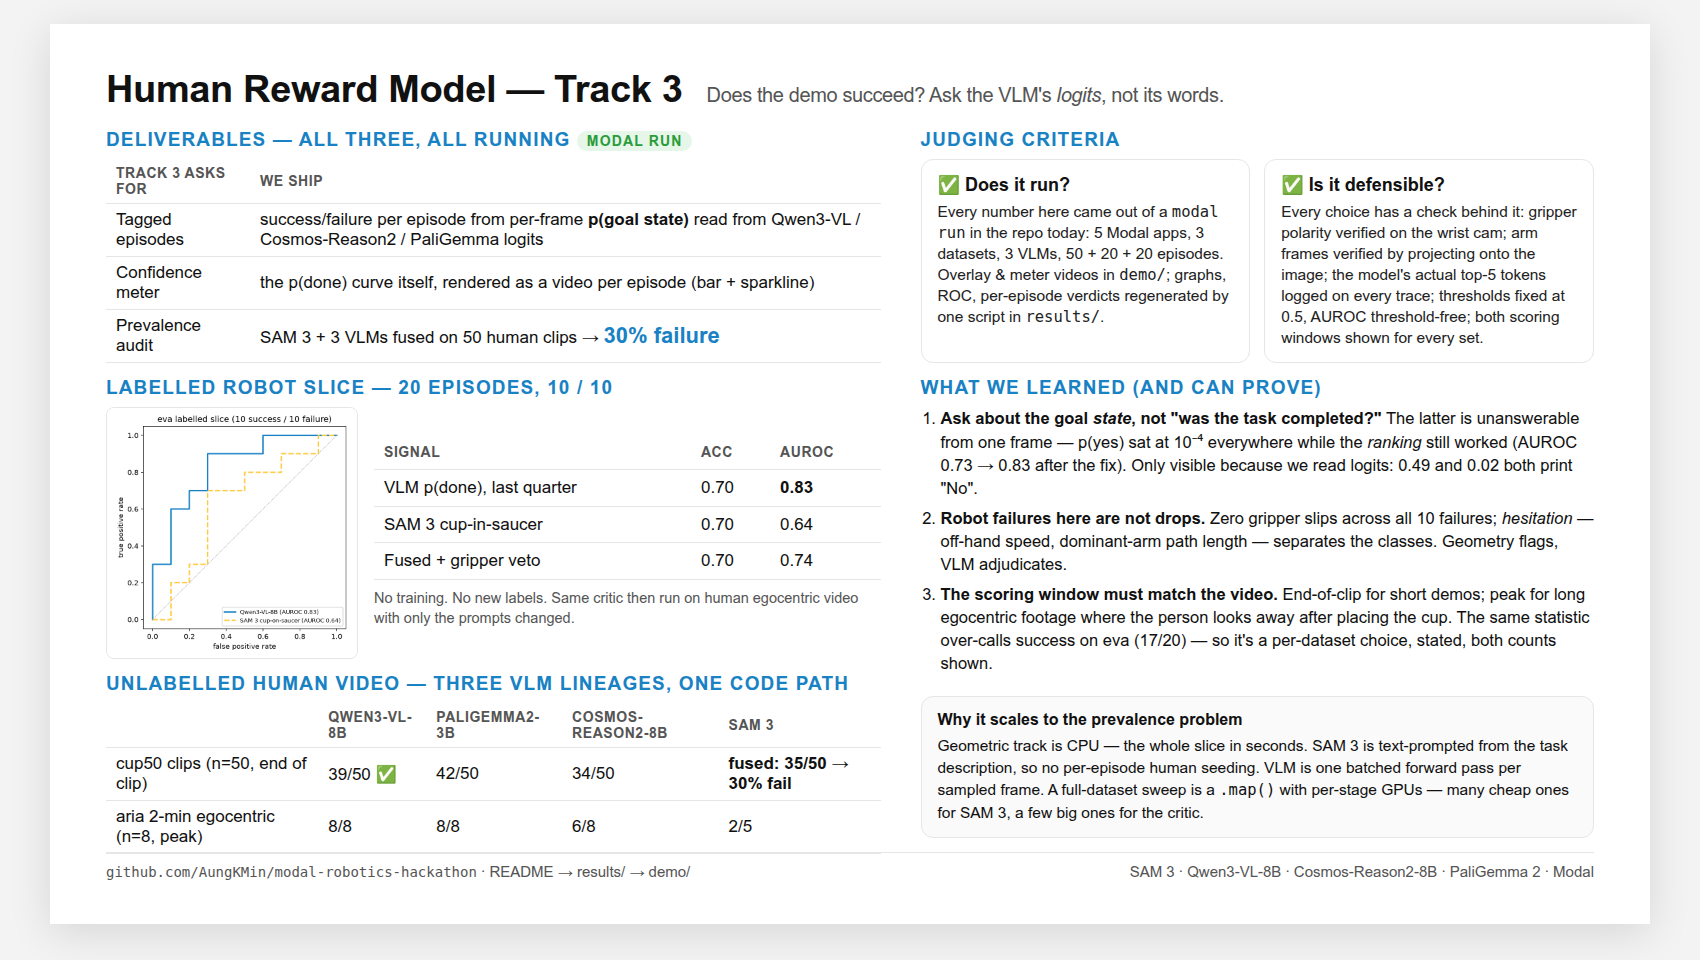
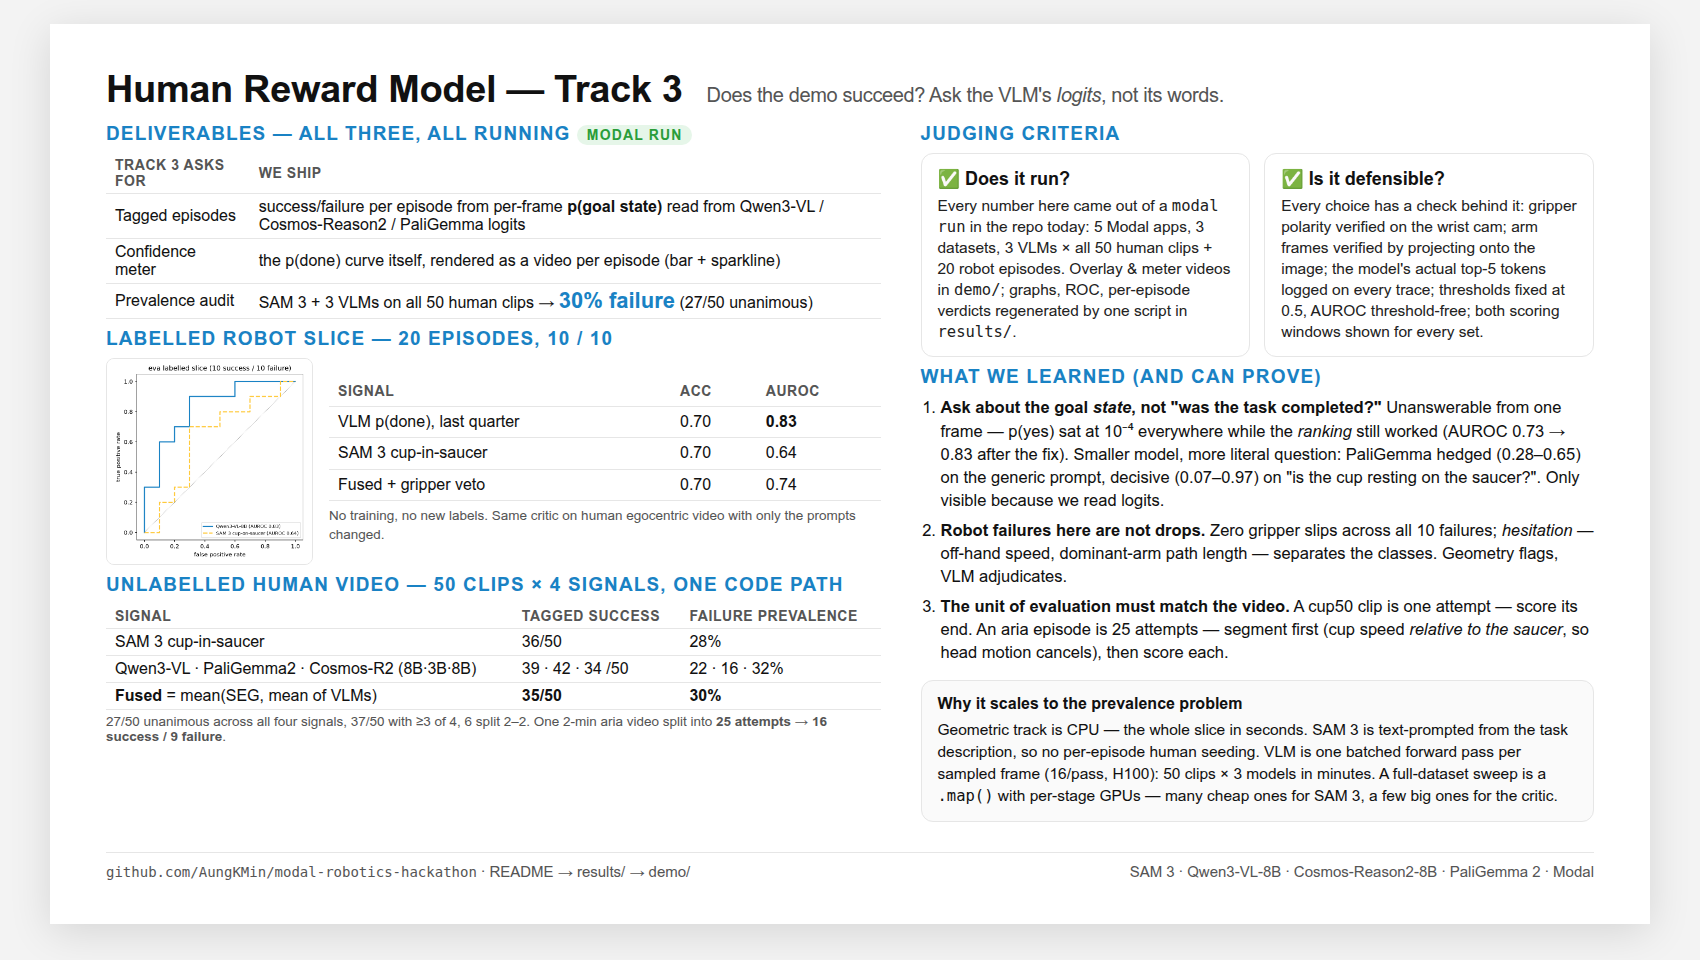
Slide + README rewritten for the full 50-clip, three-VLM results

diff --git a/SLIDE.html b/SLIDE.html
@@ -3,13 +3,13 @@
 <style>
   :root { --ink:#111; --muted:#555; --line:#e6e6e6; --good:#2a9d3a; --bad:#d63a3a; --accent:#1982c4; }
   html,body { margin:0; background:#f3f3f3; font-family: Inter, -apple-system, Segoe UI, Roboto, sans-serif; color:var(--ink); }
-  .slide { width:1600px; height:900px; margin:24px auto; background:#fff; box-shadow:0 8px 40px rgba(0,0,0,.12); padding:44px 56px; box-sizing:border-box; display:grid; grid-template-columns: 1.15fr 1fr; grid-template-rows:auto 1fr auto; gap:18px 40px; }
+  .slide { width:1600px; height:900px; margin:24px auto; background:#fff; box-shadow:0 8px 40px rgba(0,0,0,.12); padding:44px 56px; box-sizing:border-box; display:grid; grid-template-columns: 1.15fr 1fr; grid-template-rows:auto 1fr auto; gap:12px 40px; }
   h1 { grid-column:1/3; margin:0; font-size:38px; letter-spacing:-.01em; }
   h1 small { font-size:20px; color:var(--muted); font-weight:500; margin-left:14px; }
   h2 { font-size:19px; margin:0 0 8px; text-transform:uppercase; letter-spacing:.06em; color:var(--accent); }
-  .col { display:flex; flex-direction:column; gap:14px; min-height:0; }
-  table { border-collapse:collapse; width:100%; font-size:17px; }
-  th,td { padding:6px 10px; border-bottom:1px solid var(--line); text-align:left; }
+  .col { display:flex; flex-direction:column; gap:9px; min-height:0; }
+  table { border-collapse:collapse; width:100%; font-size:16px; }
+  th,td { padding:4px 9px; border-bottom:1px solid var(--line); text-align:left; }
   th { font-weight:600; color:var(--muted); font-size:14px; text-transform:uppercase; letter-spacing:.04em; }
   td.num { font-variant-numeric: tabular-nums; }
   .big { font-size:22px; font-weight:700; color:var(--accent); }
@@ -24,7 +24,7 @@
   .foot { grid-column:1/3; display:flex; justify-content:space-between; align-items:center; font-size:15px; color:var(--muted); border-top:1px solid var(--line); padding-top:10px; }
   .foot code { font-size:14px; }
   .roc { display:flex; gap:16px; align-items:center; }
-  .roc img { width:250px; height:250px; border:1px solid var(--line); border-radius:8px; }
+  .roc img { width:205px; height:205px; border:1px solid var(--line); border-radius:8px; }
   .roc .k { font-size:15.5px; line-height:1.4; }
 </style></head><body>
 <div class="slide">
@@ -37,7 +37,7 @@
         <tr><th>Track 3 asks for</th><th>We ship</th></tr>
         <tr><td>Tagged episodes</td><td>success/failure per episode from per-frame <b>p(goal state)</b> read from Qwen3-VL / Cosmos-Reason2 / PaliGemma logits</td></tr>
         <tr><td>Confidence meter</td><td>the p(done) curve itself, rendered as a video per episode (bar + sparkline)</td></tr>
-        <tr><td>Prevalence audit</td><td>SAM 3 + 3 VLMs fused on 50 human clips → <span class="big">30% failure</span></td></tr>
+        <tr><td>Prevalence audit</td><td>SAM 3 + 3 VLMs on all 50 human clips → <span class="big">30% failure</span> (27/50 unanimous)</td></tr>
       </table>
     </div>
 
@@ -52,18 +52,20 @@
             <tr><td>SAM 3 cup-in-saucer</td><td class="num">0.70</td><td class="num">0.64</td></tr>
             <tr><td>Fused + gripper veto</td><td class="num">0.70</td><td class="num">0.74</td></tr>
           </table>
-          <div style="margin-top:8px;color:var(--muted);font-size:14.5px">No training. No new labels. Same critic then run on human egocentric video with only the prompts changed.</div>
+          <div style="margin-top:6px;color:var(--muted);font-size:13.5px">No training, no new labels. Same critic on human egocentric video with only the prompts changed.</div>
         </div>
       </div>
     </div>
 
     <div>
-      <h2>Unlabelled human video — three VLM lineages, one code path</h2>
+      <h2>Unlabelled human video — 50 clips × 4 signals, one code path</h2>
       <table>
-        <tr><th></th><th>Qwen3-VL-8B</th><th>PaliGemma2-3B</th><th>Cosmos-Reason2-8B</th><th>SAM 3</th></tr>
-        <tr><td>cup50 clips (n=50, end of clip)</td><td class="num">39/50 ✅</td><td class="num">42/50</td><td class="num">34/50</td><td class="num"><b>fused: 35/50 → 30% fail</b></td></tr>
-        <tr><td>aria 2-min egocentric (n=8, peak)</td><td class="num">8/8</td><td class="num">8/8</td><td class="num">6/8</td><td class="num">2/5</td></tr>
+        <tr><th>signal</th><th>tagged success</th><th>failure prevalence</th></tr>
+        <tr><td>SAM 3 cup-in-saucer</td><td class="num">36/50</td><td class="num">28%</td></tr>
+        <tr><td>Qwen3-VL · PaliGemma2 · Cosmos-R2 (8B·3B·8B)</td><td class="num">39 · 42 · 34 /50</td><td class="num">22 · 16 · 32%</td></tr>
+        <tr><td><b>Fused</b> = mean(SEG, mean of VLMs)</td><td class="num"><b>35/50</b></td><td class="num"><b>30%</b></td></tr>
       </table>
+      <div style="margin-top:4px;color:var(--muted);font-size:13.5px">27/50 unanimous across all four signals, 37/50 with ≥3 of 4, 6 split 2–2. One 2-min aria video split into <b>25 attempts → 16 success / 9 failure</b>.</div>
     </div>
   </div>
 
@@ -71,7 +73,7 @@
     <div>
       <h2>Judging criteria</h2>
       <div class="judge">
-        <div class="card"><b>✅ Does it run?</b><p>Every number here came out of a <code>modal run</code> in the repo today: 5 Modal apps, 3 datasets, 3 VLMs, 50 + 20 + 20 episodes. Overlay &amp; meter videos in <code>demo/</code>; graphs, ROC, per-episode verdicts regenerated by one script in <code>results/</code>.</p></div>
+        <div class="card"><b>✅ Does it run?</b><p>Every number here came out of a <code>modal run</code> in the repo today: 5 Modal apps, 3 datasets, 3 VLMs × all 50 human clips + 20 robot episodes. Overlay &amp; meter videos in <code>demo/</code>; graphs, ROC, per-episode verdicts regenerated by one script in <code>results/</code>.</p></div>
         <div class="card"><b>✅ Is it defensible?</b><p>Every choice has a check behind it: gripper polarity verified on the wrist cam; arm frames verified by projecting onto the image; the model's actual top-5 tokens logged on every trace; thresholds fixed at 0.5, AUROC threshold-free; both scoring windows shown for every set.</p></div>
       </div>
     </div>
@@ -79,15 +81,15 @@
     <div>
       <h2>What we learned (and can prove)</h2>
       <ol>
-        <li><b>Ask about the goal <em>state</em>, not "was the task completed?"</b> The latter is unanswerable from one frame — p(yes) sat at 10⁻⁴ everywhere while the <em>ranking</em> still worked (AUROC 0.73 → 0.83 after the fix). Only visible because we read logits: 0.49 and 0.02 both print "No".</li>
+        <li><b>Ask about the goal <em>state</em>, not "was the task completed?"</b> Unanswerable from one frame — p(yes) sat at 10⁻⁴ everywhere while the <em>ranking</em> still worked (AUROC 0.73 → 0.83 after the fix). Smaller model, more literal question: PaliGemma hedged (0.28–0.65) on the generic prompt, decisive (0.07–0.97) on "is the cup resting on the saucer?". Only visible because we read logits.</li>
         <li><b>Robot failures here are not drops.</b> Zero gripper slips across all 10 failures; <em>hesitation</em> — off-hand speed, dominant-arm path length — separates the classes. Geometry flags, VLM adjudicates.</li>
-        <li><b>The scoring window must match the video.</b> End-of-clip for short demos; peak for long egocentric footage where the person looks away after placing the cup. The same statistic over-calls success on eva (17/20) — so it's a per-dataset choice, stated, both counts shown.</li>
+        <li><b>The unit of evaluation must match the video.</b> A cup50 clip is one attempt — score its end. An aria episode is 25 attempts — segment first (cup speed <em>relative to the saucer</em>, so head motion cancels), then score each.</li>
       </ol>
     </div>
 
     <div class="card" style="background:#fafafa">
       <b>Why it scales to the prevalence problem</b>
-      <p style="margin:6px 0 0;font-size:15.5px;line-height:1.4">Geometric track is CPU — the whole slice in seconds. SAM 3 is text-prompted from the task description, so no per-episode human seeding. VLM is one batched forward pass per sampled frame. A full-dataset sweep is a <code>.map()</code> with per-stage GPUs — many cheap ones for SAM 3, a few big ones for the critic.</p>
+      <p style="margin:6px 0 0;font-size:15.5px;line-height:1.4">Geometric track is CPU — the whole slice in seconds. SAM 3 is text-prompted from the task description, so no per-episode human seeding. VLM is one batched forward pass per sampled frame (16/pass, H100): 50 clips × 3 models in minutes. A full-dataset sweep is a <code>.map()</code> with per-stage GPUs — many cheap ones for SAM 3, a few big ones for the critic.</p>
     </div>
   </div>
 

diff --git a/README.md b/README.md
@@ -13,12 +13,11 @@ https://github.com/user-attachments/assets/bf97fde3-0637-4622-8e00-3abb104e7c60
 
 > One-slide version: [`SLIDE.pptx`](SLIDE.pptx) · [`SLIDE.png`](SLIDE.png) · [`SLIDE.html`](SLIDE.html) · [`SLIDE.md`](SLIDE.md)
 
-Refer to [results](https://github.com/AungKMin/modal-robotics-hackathon/tree/main/results) for a detailed summary.
-
 **Does the demo succeed? Ask the VLM's logits, not its words.**
-Per-frame `p(goal state reached)` read from Qwen3-VL / Cosmos-Reason2 / PaliGemma logits →
-confidence meter → episode tag → prevalence audit. Plus SAM 3 text-prompted masks
-(`hand`, `cup`, `saucer`) and gripper proprioception. Zero training, zero new labels, all on Modal.
+Per-frame `p(cup is on the saucer)` read from Qwen3-VL-8B / Cosmos-Reason2-8B / PaliGemma 2 logits →
+confidence meter → episode tag → prevalence audit. Fused with SAM 3 text-prompted masks
+(`hand`, `cup`, `saucer`) and, on robot episodes, gripper proprioception. Zero training, zero new
+labels, all on Modal. **Success = the cup ends up on the saucer; failure = it does not.**
 
 **Labelled robot slice** — 20 eva cup-on-saucer episodes, 10 success / 10 failure
 
@@ -28,54 +27,45 @@ confidence meter → episode tag → prevalence audit. Plus SAM 3 text-prompted 
 | SAM 3 cup-centroid-in-saucer | 0.70 | 0.64 |
 | Fused + geometric veto | 0.70 | 0.74 |
 
-**Unlabelled human video** — same critic, only the prompts changed
+**Prevalence audit — 50 unlabelled human cup-on-saucer clips**
+([somundane/egoverse-cup50](https://huggingface.co/datasets/somundane/egoverse-cup50)), every signal on every clip
 
-| | Qwen3-VL-8B | PaliGemma2-3B | Cosmos-Reason2-8B | SAM 3 |
-|---|---|---|---|---|
-| cup50 clips (n=50, end-of-clip) | 39/50 success | 42/50 | 34/50 | **fused 35/50 → 30% failure prevalence** |
-| aria 2-min egocentric (n=8, peak) | 8/8 | 8/8 | 6/8 | 2/5 |
+| signal | tagged success | failure prevalence |
+|---|---|---|
+| SAM 3 cup-in-saucer | 36/50 | 28% |
+| Qwen3-VL-8B | 39/50 | 22% |
+| PaliGemma2-3B | 42/50 | 16% |
+| Cosmos-Reason2-8B | 34/50 | 32% |
+| **Fused** = mean(SEG, mean of VLMs) | **35/50** | **30%** |
 
-**Three things we learned**
+Agreement: **27/50 clips unanimous** across all four signals, 37/50 with ≥3 of 4, only 6 split 2–2.
+Per-episode votes: [`results/cup50_final.md`](results/cup50_final.md).
+
+**One 2-minute aria egocentric video, split into attempts** — cup rests *relative to the saucer*
+(so head motion cancels), each pick-up→set-down scored: **25 attempts → 16 success / 9 failure**,
+plus 16 returns to the start position correctly not counted.
+[`results/aria_split_2025-11-24-23-59-28-546000.md`](results/aria_split_2025-11-24-23-59-28-546000.md)
+
+**Three things we learned (and can prove)**
 
 1. **Ask about the goal *state*, not "was the task completed?"** The latter is unanswerable from
    one frame; p(yes) sat at 10⁻⁴ on every frame while the *ranking* still worked (AUROC 0.73 →
-   0.83 after the fix). Only visible because we read logits — 0.49 and 0.02 both print "No".
+   0.83 after the fix). And the smaller the model, the more literal the question must be:
+   PaliGemma hedged at 0.28–0.65 on the generic prompt and became decisive (0.07–0.97) on
+   "is the cup resting on the saucer?". Only visible because we read logits — 0.49 and 0.02
+   both print "No".
 2. **Robot failures here are not drops.** Zero gripper slips across all 10 failures; hesitation
-   (off-hand speed, dominant-arm path length) separates the classes. Geometry flags, VLM
-   adjudicates.
-3. **The scoring window must match the video.** End-of-clip for short demos; peak for long
-   egocentric footage where the person looks away after placing the cup. The same statistic on
-   eva over-calls success (17/20), so it is chosen per dataset and both counts are shown.
+   (off-hand speed, dominant-arm path length) separates the classes. Geometry flags, VLM adjudicates.
+3. **The unit of evaluation must match the video.** A cup50 clip is one attempt — score its end.
+   An aria episode is 25 attempts — segment first, then score each; the episode-level number was
+   never the right question. Camera motion has to cancel to segment: cup speed relative to a
+   static scene object, not in image space.
 
-**Cost:** geometric track is CPU, seconds. VLM at 1 fps is one forward pass per frame, batched
-16, on L40S/A100. A full-dataset sweep is a `.map()`.
+**Cost:** geometric track is CPU, seconds. VLM at 1 fps is one batched forward pass per frame
+(16/pass) on an H100; all 50 clips × 3 models ran in minutes. A full-dataset sweep is a `.map()`.
 
 Graphs, ROC, per-episode verdicts and each model's actual top tokens: [`results/`](results/README.md).
 Sample overlays and confidence-meter videos: [`demo/`](demo/).
-
-**Two verdicts from the confidence meter** (last sampled frame, Qwen3-VL-8B, `eva_bimanual`
-labelled slice — both agree with ground truth):
-
-<table>
-<tr>
-<td width="50%">
-
-![success — p(done)=0.99, agrees with ground truth](demo/vlm_examples/eva_success_2026-03-04-19-11-58-058000.png)
-
-**Tagged success** — episode `2026-03-04-19-11-58-058000`, frame 990, `p(done)=0.99`.
-Cup resting on the saucer under the left gripper.
-
-</td>
-<td width="50%">
-
-![failure — p(done)=0.00, agrees with ground truth](demo/vlm_examples/eva_failure_2026-03-01-21-53-09-065000.png)
-
-**Tagged failure** — episode `2026-03-01-21-53-09-065000`, frame 1410, `p(done)=0.00`.
-Cup and saucer left on opposite sides of the table.
-
-</td>
-</tr>
-</table>
 
 ## What we built
 

diff --git a/SLIDE.md b/SLIDE.md
@@ -3,9 +3,10 @@
 ## Results at a glance
 
 **Does the demo succeed? Ask the VLM's logits, not its words.**
-Per-frame `p(goal state reached)` read from Qwen3-VL / Cosmos-Reason2 / PaliGemma logits →
-confidence meter → episode tag → prevalence audit. Plus SAM 3 text-prompted masks
-(`hand`, `cup`, `saucer`) and gripper proprioception. Zero training, zero new labels, all on Modal.
+Per-frame `p(cup is on the saucer)` read from Qwen3-VL-8B / Cosmos-Reason2-8B / PaliGemma 2 logits →
+confidence meter → episode tag → prevalence audit. Fused with SAM 3 text-prompted masks
+(`hand`, `cup`, `saucer`) and, on robot episodes, gripper proprioception. Zero training, zero new
+labels, all on Modal. **Success = the cup ends up on the saucer; failure = it does not.**
 
 **Labelled robot slice** — 20 eva cup-on-saucer episodes, 10 success / 10 failure
 
@@ -15,27 +16,42 @@ confidence meter → episode tag → prevalence audit. Plus SAM 3 text-prompted 
 | SAM 3 cup-centroid-in-saucer | 0.70 | 0.64 |
 | Fused + geometric veto | 0.70 | 0.74 |
 
-**Unlabelled human video** — same critic, only the prompts changed
+**Prevalence audit — 50 unlabelled human cup-on-saucer clips**
+([somundane/egoverse-cup50](https://huggingface.co/datasets/somundane/egoverse-cup50)), every signal on every clip
 
-| | Qwen3-VL-8B | PaliGemma2-3B | Cosmos-Reason2-8B | SAM 3 |
-|---|---|---|---|---|
-| cup50 clips (n=50, end-of-clip) | 39/50 success | 42/50 | 34/50 | **fused 35/50 → 30% failure prevalence** |
-| aria 2-min egocentric (n=8, peak) | 8/8 | 8/8 | 6/8 | 2/5 |
+| signal | tagged success | failure prevalence |
+|---|---|---|
+| SAM 3 cup-in-saucer | 36/50 | 28% |
+| Qwen3-VL-8B | 39/50 | 22% |
+| PaliGemma2-3B | 42/50 | 16% |
+| Cosmos-Reason2-8B | 34/50 | 32% |
+| **Fused** = mean(SEG, mean of VLMs) | **35/50** | **30%** |
 
-**Three things we learned**
+Agreement: **27/50 clips unanimous** across all four signals, 37/50 with ≥3 of 4, only 6 split 2–2.
+Per-episode votes: [`results/cup50_final.md`](results/cup50_final.md).
+
+**One 2-minute aria egocentric video, split into attempts** — cup rests *relative to the saucer*
+(so head motion cancels), each pick-up→set-down scored: **25 attempts → 16 success / 9 failure**,
+plus 16 returns to the start position correctly not counted.
+[`results/aria_split_2025-11-24-23-59-28-546000.md`](results/aria_split_2025-11-24-23-59-28-546000.md)
+
+**Three things we learned (and can prove)**
 
 1. **Ask about the goal *state*, not "was the task completed?"** The latter is unanswerable from
    one frame; p(yes) sat at 10⁻⁴ on every frame while the *ranking* still worked (AUROC 0.73 →
-   0.83 after the fix). Only visible because we read logits — 0.49 and 0.02 both print "No".
+   0.83 after the fix). And the smaller the model, the more literal the question must be:
+   PaliGemma hedged at 0.28–0.65 on the generic prompt and became decisive (0.07–0.97) on
+   "is the cup resting on the saucer?". Only visible because we read logits — 0.49 and 0.02
+   both print "No".
 2. **Robot failures here are not drops.** Zero gripper slips across all 10 failures; hesitation
-   (off-hand speed, dominant-arm path length) separates the classes. Geometry flags, VLM
-   adjudicates.
-3. **The scoring window must match the video.** End-of-clip for short demos; peak for long
-   egocentric footage where the person looks away after placing the cup. The same statistic on
-   eva over-calls success (17/20), so it is chosen per dataset and both counts are shown.
+   (off-hand speed, dominant-arm path length) separates the classes. Geometry flags, VLM adjudicates.
+3. **The unit of evaluation must match the video.** A cup50 clip is one attempt — score its end.
+   An aria episode is 25 attempts — segment first, then score each; the episode-level number was
+   never the right question. Camera motion has to cancel to segment: cup speed relative to a
+   static scene object, not in image space.
 
-**Cost:** geometric track is CPU, seconds. VLM at 1 fps is one forward pass per frame, batched
-16, on L40S/A100. A full-dataset sweep is a `.map()`.
+**Cost:** geometric track is CPU, seconds. VLM at 1 fps is one batched forward pass per frame
+(16/pass) on an H100; all 50 clips × 3 models ran in minutes. A full-dataset sweep is a `.map()`.
 
 Graphs, ROC, per-episode verdicts and each model's actual top tokens: [`results/`](results/README.md).
 Sample overlays and confidence-meter videos: [`demo/`](demo/).
